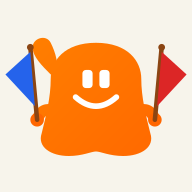
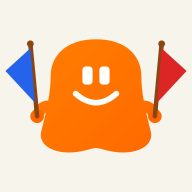
fix(dashboard): remove the mascot's ears
The character is a blob holding a flag in each hand, but it had grown an ear:
a large pointed one on the left of the head in the masthead mark, a smaller
bump on the right, and the left one alone in the install-icon artwork. Nobody
notices a head protrusion at 40px until the home screen has carried it for a
while, so it goes in both copies.

- Remove both ears from `components/Logo.tsx`, and the `ogHighlight` gradient
  that only the left ear's duplicate path used.
- Remove the left ear from the artwork in `scripts/generate-icons.mjs`. The
  ear was the topmost thing in the mark, so the `ARTWORK` box loses 3.1 of its
  height (54.6 -> 51.5, top 2.2 -> 5.3, measured back out of the render); the
  width is unchanged, which is why only the vertical centring moved.
- Regenerate the shipped icons from that one canvas.
- Pin the silhouette rather than the geometry: `Logo.test.tsx` and
  `lib/app-icons.test.ts` count what is painted in the body's own ink — one
  body fill and the two arm strokes — so a protrusion cannot be added back
  quietly. `design.md` § Voice records the shape beside the orange rule.

Changed region(s): [[0.0312, 0.1875, 0.9688, 0.8125], [0.375, 0.4375, 0.625, 0.5938], [0.4062, 0.3438, 0.5938, 0.375]]

diff --git a/packages/dashboard/src/components/Logo.tsx b/packages/dashboard/src/components/Logo.tsx
@@ -33,10 +33,6 @@ export default function Logo({ className }: { className?: string }) {
           <stop offset="0%" stopColor="#FF8000" />
           <stop offset="100%" stopColor="#FF6600" />
         </linearGradient>
-        <linearGradient id="ogHighlight" x1="0" y1="0" x2="0" y2="1">
-          <stop offset="0%" stopColor="rgba(255,255,255,0.25)" />
-          <stop offset="100%" stopColor="rgba(255,255,255,0)" />
-        </linearGradient>
       </defs>
 
       <g>
@@ -55,39 +51,6 @@ export default function Logo({ className }: { className?: string }) {
             C 98 122 106 116 104 104
             C 102 86 98 62 98 46
             C 98 28 86 16 60 16
-            Z
-          "
-          fill="url(#ogBody)"
-        />
-
-        <path
-          d="
-            M 22 44
-            C 14 36 6 26 6 18
-            C 6 12 14 10 18 16
-            C 22 22 28 32 26 44
-            Z
-          "
-          fill="url(#ogBody)"
-        />
-
-        <path
-          d="
-            M 22 44
-            C 14 36 6 26 6 18
-            C 6 12 14 10 18 16
-            C 22 22 28 32 26 44
-            Z
-          "
-          fill="url(#ogHighlight)"
-        />
-
-        <path
-          d="
-            M 98 46
-            C 98 40 106 34 110 36
-            C 114 38 114 46 108 48
-            C 104 50 98 50 98 46
             Z
           "
           fill="url(#ogBody)"

diff --git a/packages/dashboard/src/components/Logo.test.tsx b/packages/dashboard/src/components/Logo.test.tsx
@@ -30,6 +30,26 @@ describe('Logo', () => {
     expect(bodyStops(container)).toEqual(MASCOT_ORANGE);
   });
 
+  test('the character is a blob with two arms, and no ears', () => {
+    // The mark is a blob Thing holding a flag in each hand. An ear was once
+    // drawn on either side of the head; both were removed because the character
+    // is not an animal, and only a shape-count catches one being added back —
+    // a head protrusion is otherwise invisible until someone notices it in the
+    // masthead. Everything painted in the body's own ink is the body (a fill)
+    // and the two arms (strokes).
+    const { container } = render(<Logo />);
+    const bodyInk = Array.from(
+      container.querySelectorAll(
+        '[fill="url(#ogBody)"], [stroke="url(#ogBody)"]'
+      )
+    );
+    expect(bodyInk).toHaveLength(3);
+    expect(bodyInk[0].getAttribute('stroke')).toBeNull();
+    expect(bodyInk.slice(1).map((node) => node.getAttribute('stroke'))).toEqual(
+      ['url(#ogBody)', 'url(#ogBody)']
+    );
+  });
+
   test('the body shades without darkening towards red', () => {
     // Both stops sit at the same lightness, so the gradient gives the body form
     // rather than a burnt bottom — a dark second stop is what read as red.

diff --git a/packages/dashboard/src/lib/app-icons.test.ts b/packages/dashboard/src/lib/app-icons.test.ts
@@ -144,6 +144,18 @@ describe('app icons', () => {
     );
   });
 
+  test('the shipped mascot is a blob with two arms, and no ears', () => {
+    // `scripts/generate-icons.mjs` keeps its own copy of the artwork in the
+    // icon's coordinates, so the masthead's silhouette rule has to be pinned
+    // here too: the body (a fill) and the two arms (strokes) are the whole
+    // character. A head protrusion in an install icon is what nobody sees
+    // until the home screen has had it for a while.
+    const bodyFills = faviconSvg.match(/fill="url\(#og\)"/g) ?? [];
+    const armStrokes = faviconSvg.match(/stroke="url\(#og\)"/g) ?? [];
+    expect(bodyFills).toHaveLength(1);
+    expect(armStrokes).toHaveLength(2);
+  });
+
   test('the mascot is Orange Guy orange, not the masthead red', () => {
     // The artwork is a quote of the Electoral Commission's enrolment mascot, so
     // it is drawn in that character's orange rather than in the dashboard's

diff --git a/design.md b/design.md
@@ -88,6 +88,13 @@ to it. Amend intentionally — the file is the rule.
   artwork: the mascot never sets type, state, chips or leader markers, so the
   accent rule above is untouched. `components/Logo.test.tsx` and
   `lib/app-icons.test.ts` pin the pair.
+  The shape is a blob holding a flag in each hand, and **nothing else** — no
+  ears, no tufts, no hat. A pointed ear once sat on each side of the head: the
+  left one read as a horn, and the right one as a dent, so the character stopped
+  being the thing it quotes. Both are gone, in `Logo.tsx` and in the artwork
+  `scripts/generate-icons.mjs` keeps for the icons, and both tests count the
+  shapes drawn in the body's ink (one body, two arms) so a protrusion cannot be
+  added back quietly.
 - **Data is set in mono, labels in Inter, prose in Crimson Pro, display in
   Playfair.** Tables rule-based, figures tabular. Party colours are data
   semantics and stay untouched (National #00529F, Labour #D82A20, Green
